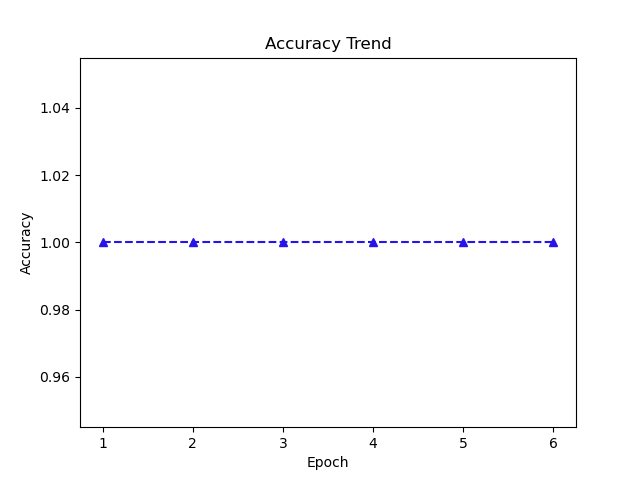
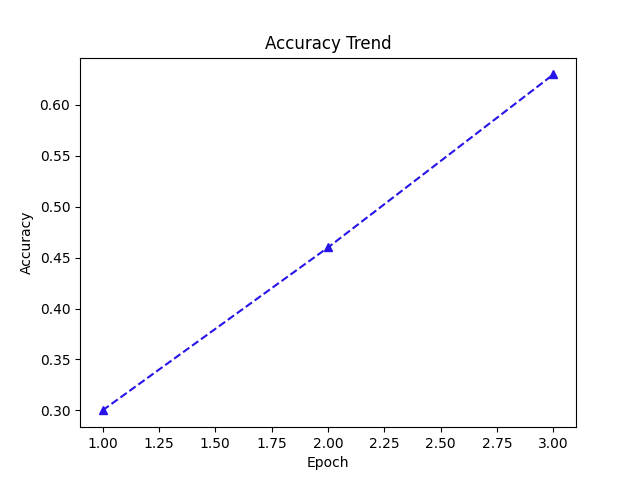
项目更新

diff --git a/数据挖掘实战-bert-GPU情感分析/bert.py b/数据挖掘实战-bert-GPU情感分析/bert.py
@@ -85,14 +85,15 @@ def train(model, train_data, val_data, learning_rate, epochs):
     # 通过Dataset类获取训练和验证集
     train, val = Dataset(train_data), Dataset(val_data)
     # DataLoader根据batch_size获取数据，训练时选择打乱样本
-    train_dataloader = torch.utils.data.DataLoader(train, batch_size=32, shuffle=True)
+    train_dataloader = torch.utils.data.DataLoader(train, batch_size=2, shuffle=True)
     #val_dataloader是一个Pytorch的数据加载器对象，它按批次自动加载预处理后的数据，并返回包含多个输入文本和标签的元组。
-    val_dataloader = torch.utils.data.DataLoader(val, batch_size=32)
+    val_dataloader = torch.utils.data.DataLoader(val, batch_size=2)
     # 定义损失函数和优化器
     criterion = nn.CrossEntropyLoss()
     optimizer = Adam(params=model.parameters(), lr=learning_rate)
     # 将模型移到GPU上
-    device = torch.device('cuda')
+    # device = torch.device('cuda' if torch.cuda.is_available() else 'cpu')
+    device = torch.device("cpu")  # 如果没有可用的 GPU，则使用 CPU
     model.to(device=device)
     val_acc_list = []  # 用于存储每个 epoch 结束后在验证集上的准确率
     x_data = []
@@ -152,26 +153,24 @@ def train(model, train_data, val_data, learning_rate, epochs):
             val_acc_list.append(val_acc)  # 将准确率添加到列表中
         x_data.append(epoch_num + 1)
         torch.cuda.empty_cache()
-    #保存训练好的模型
-    # torch.save(model.state_dict(), "full_model.pkl")
+    # 保存训练好的模型
+    torch.save(model.state_dict(), "full_model.pkl")
 
     return val_acc_list,x_data  # 返回验证集准确率列表
 
 
 if __name__ == '__main__':
     # 从csv文件中读取数据
-    df = pd.read_excel('train.xlsx').iloc[:50]
+    df = pd.read_excel('train.xlsx')
     df = df.dropna(subset=['评价内容'],axis=0)
     df['评价内容'] = df['评价内容'].astype('str')
     df['评论类型'] = df['评论类型'].astype('int')
     # 将数据集划分为训练集、验证集、测试集
     ## random_state=42 表示设定随机种子，以确保结果可复现
     data_train, data_test = train_test_split(df, test_size=0.3, random_state=42)
-
-    data_val = pd.read_excel('test.xlsx')
-    EPOCHS = 6
+    EPOCHS = 5
     model = BertClassifier()
-    LR = 0.001
+    LR = 1e-6
 
     val_acc_list,x_data = train(model, data_train, data_test, LR, EPOCHS)
     #绘制准确率折线图

diff --git a/数据挖掘实战-bert-GPU情感分析/test_mode.py b/数据挖掘实战-bert-GPU情感分析/test_mode.py
@@ -63,6 +63,10 @@ def predict_class(text):
 #     "这是一个测试句子",
 #     "这个产品真是太棒了",
 #     "我不喜欢这个电影",
+#     "包装很好 商家态度好 不卖临期药 比药店便宜",
+#     "包装很好 商家态度好 不卖临期药 配送员态度好 物流很快",
+#     "货送到很快"
+#
 # ]
 # # 对每个文本数据进行分类预测，并输出结果
 # for text in text_data:
